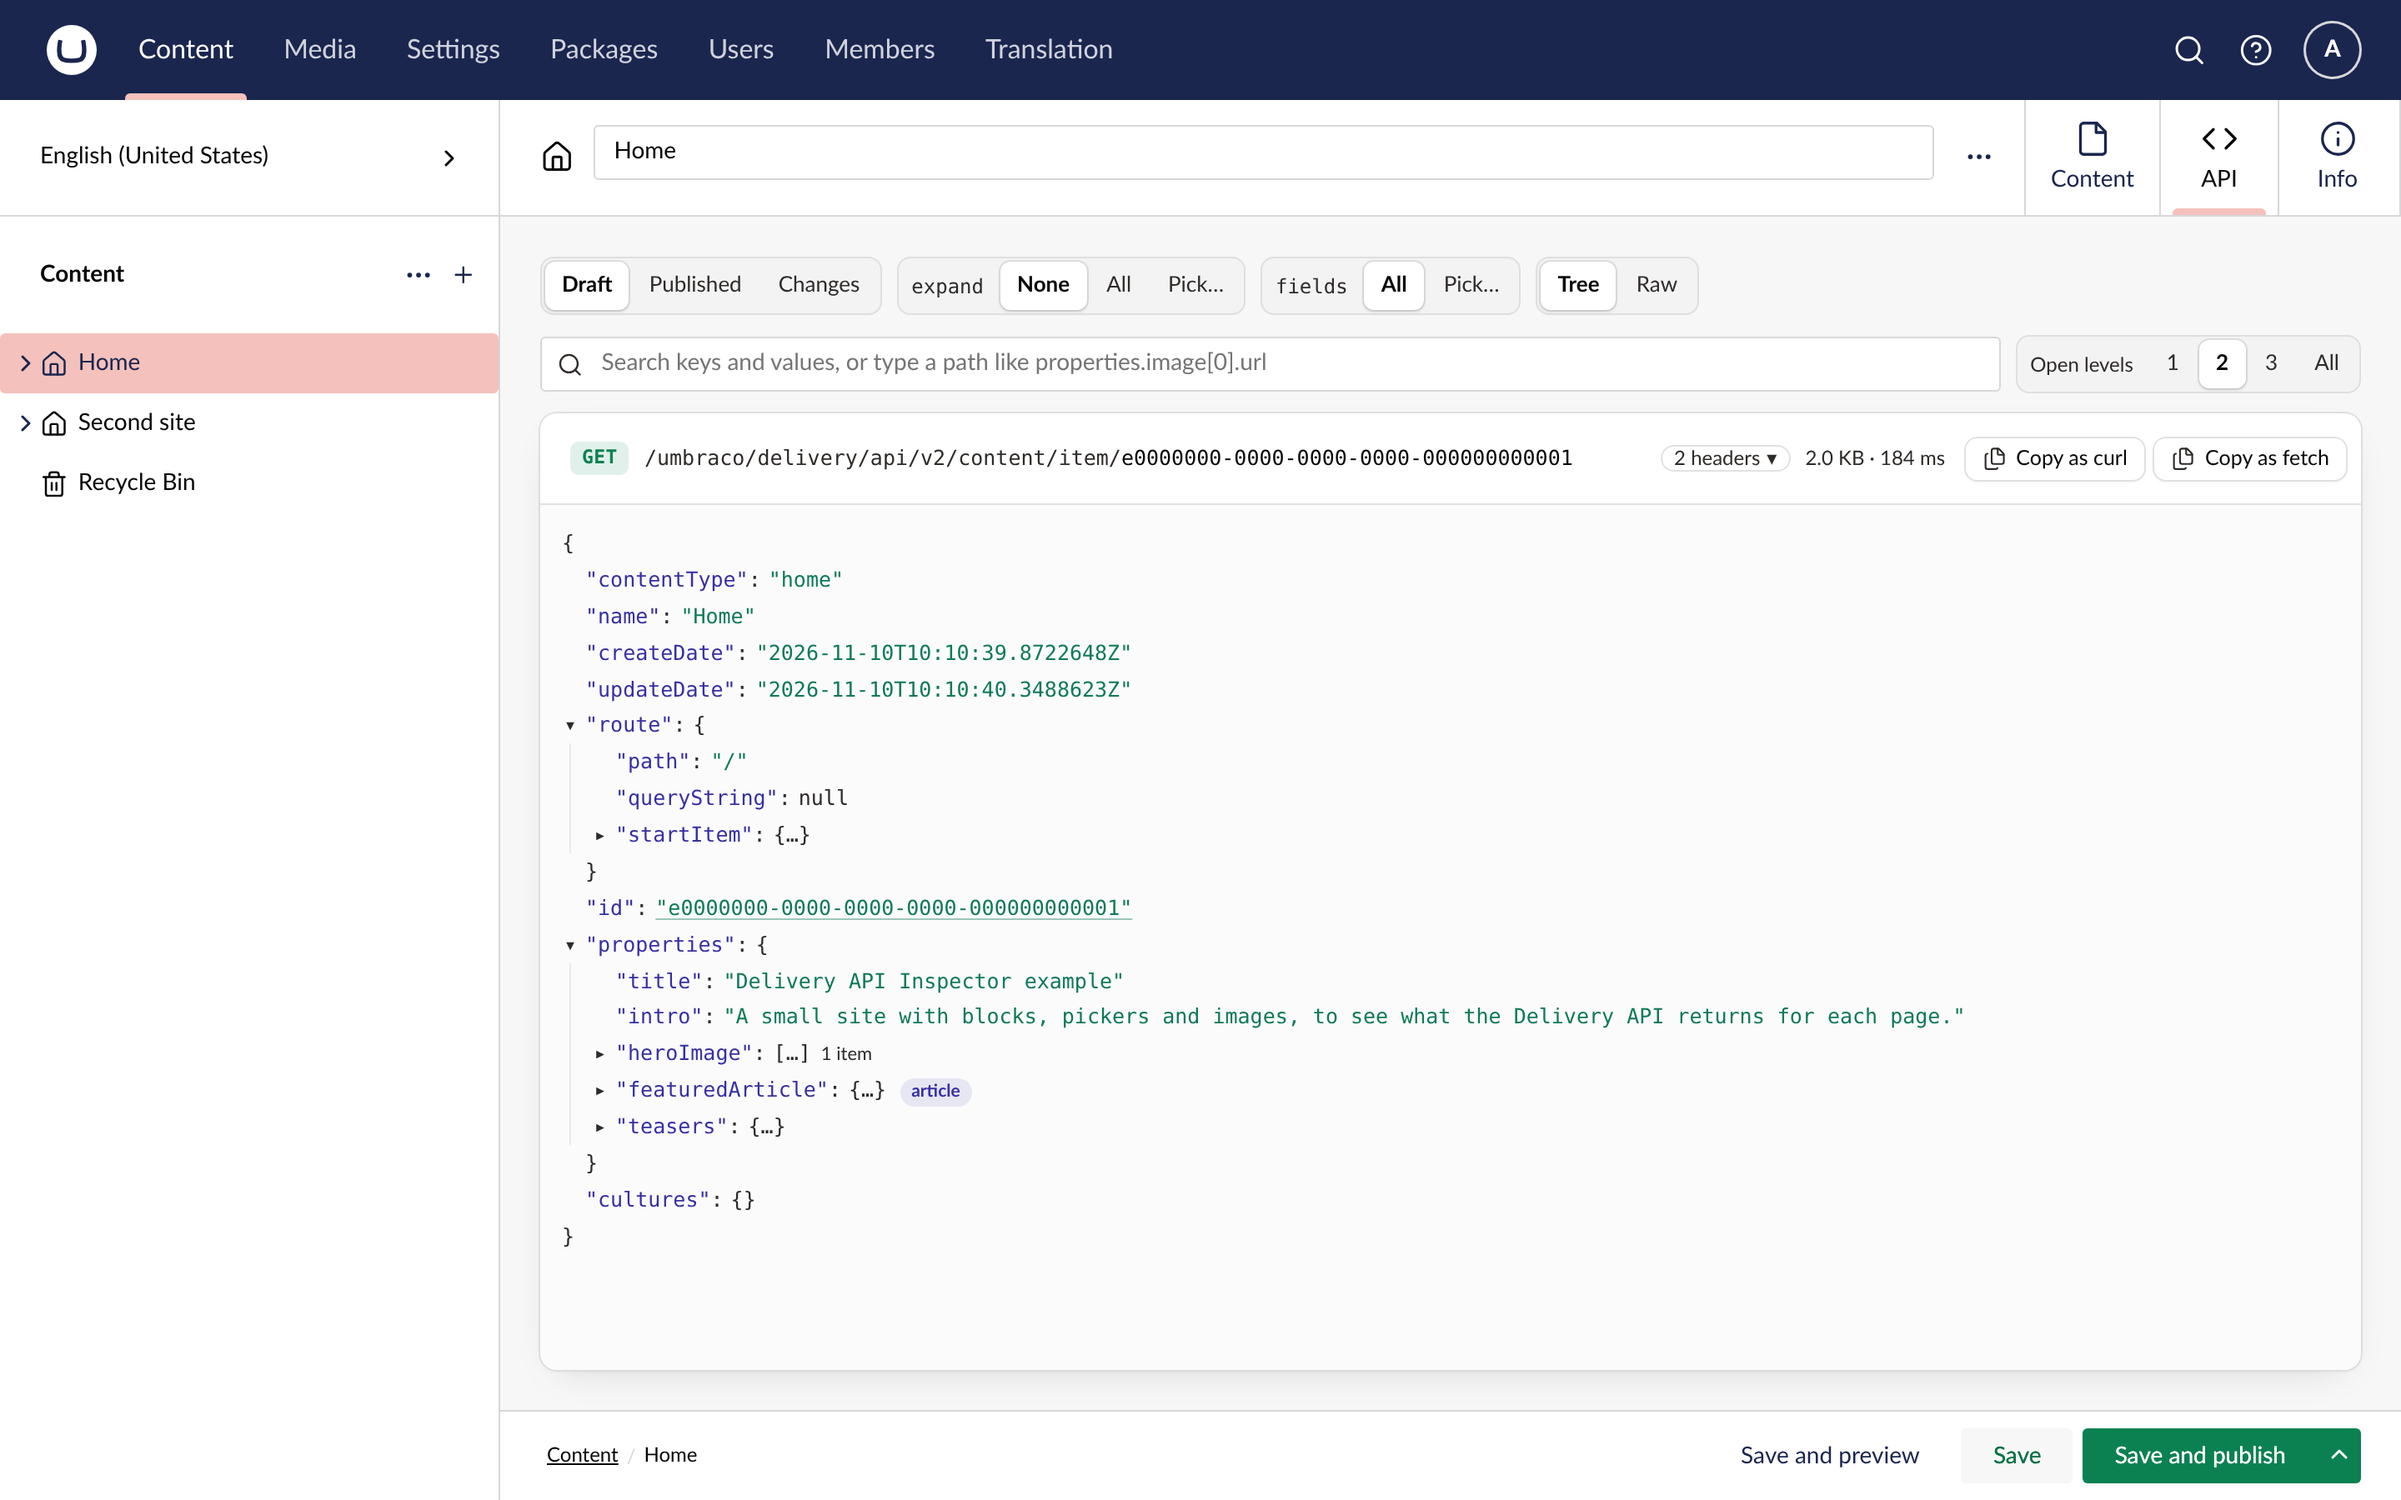
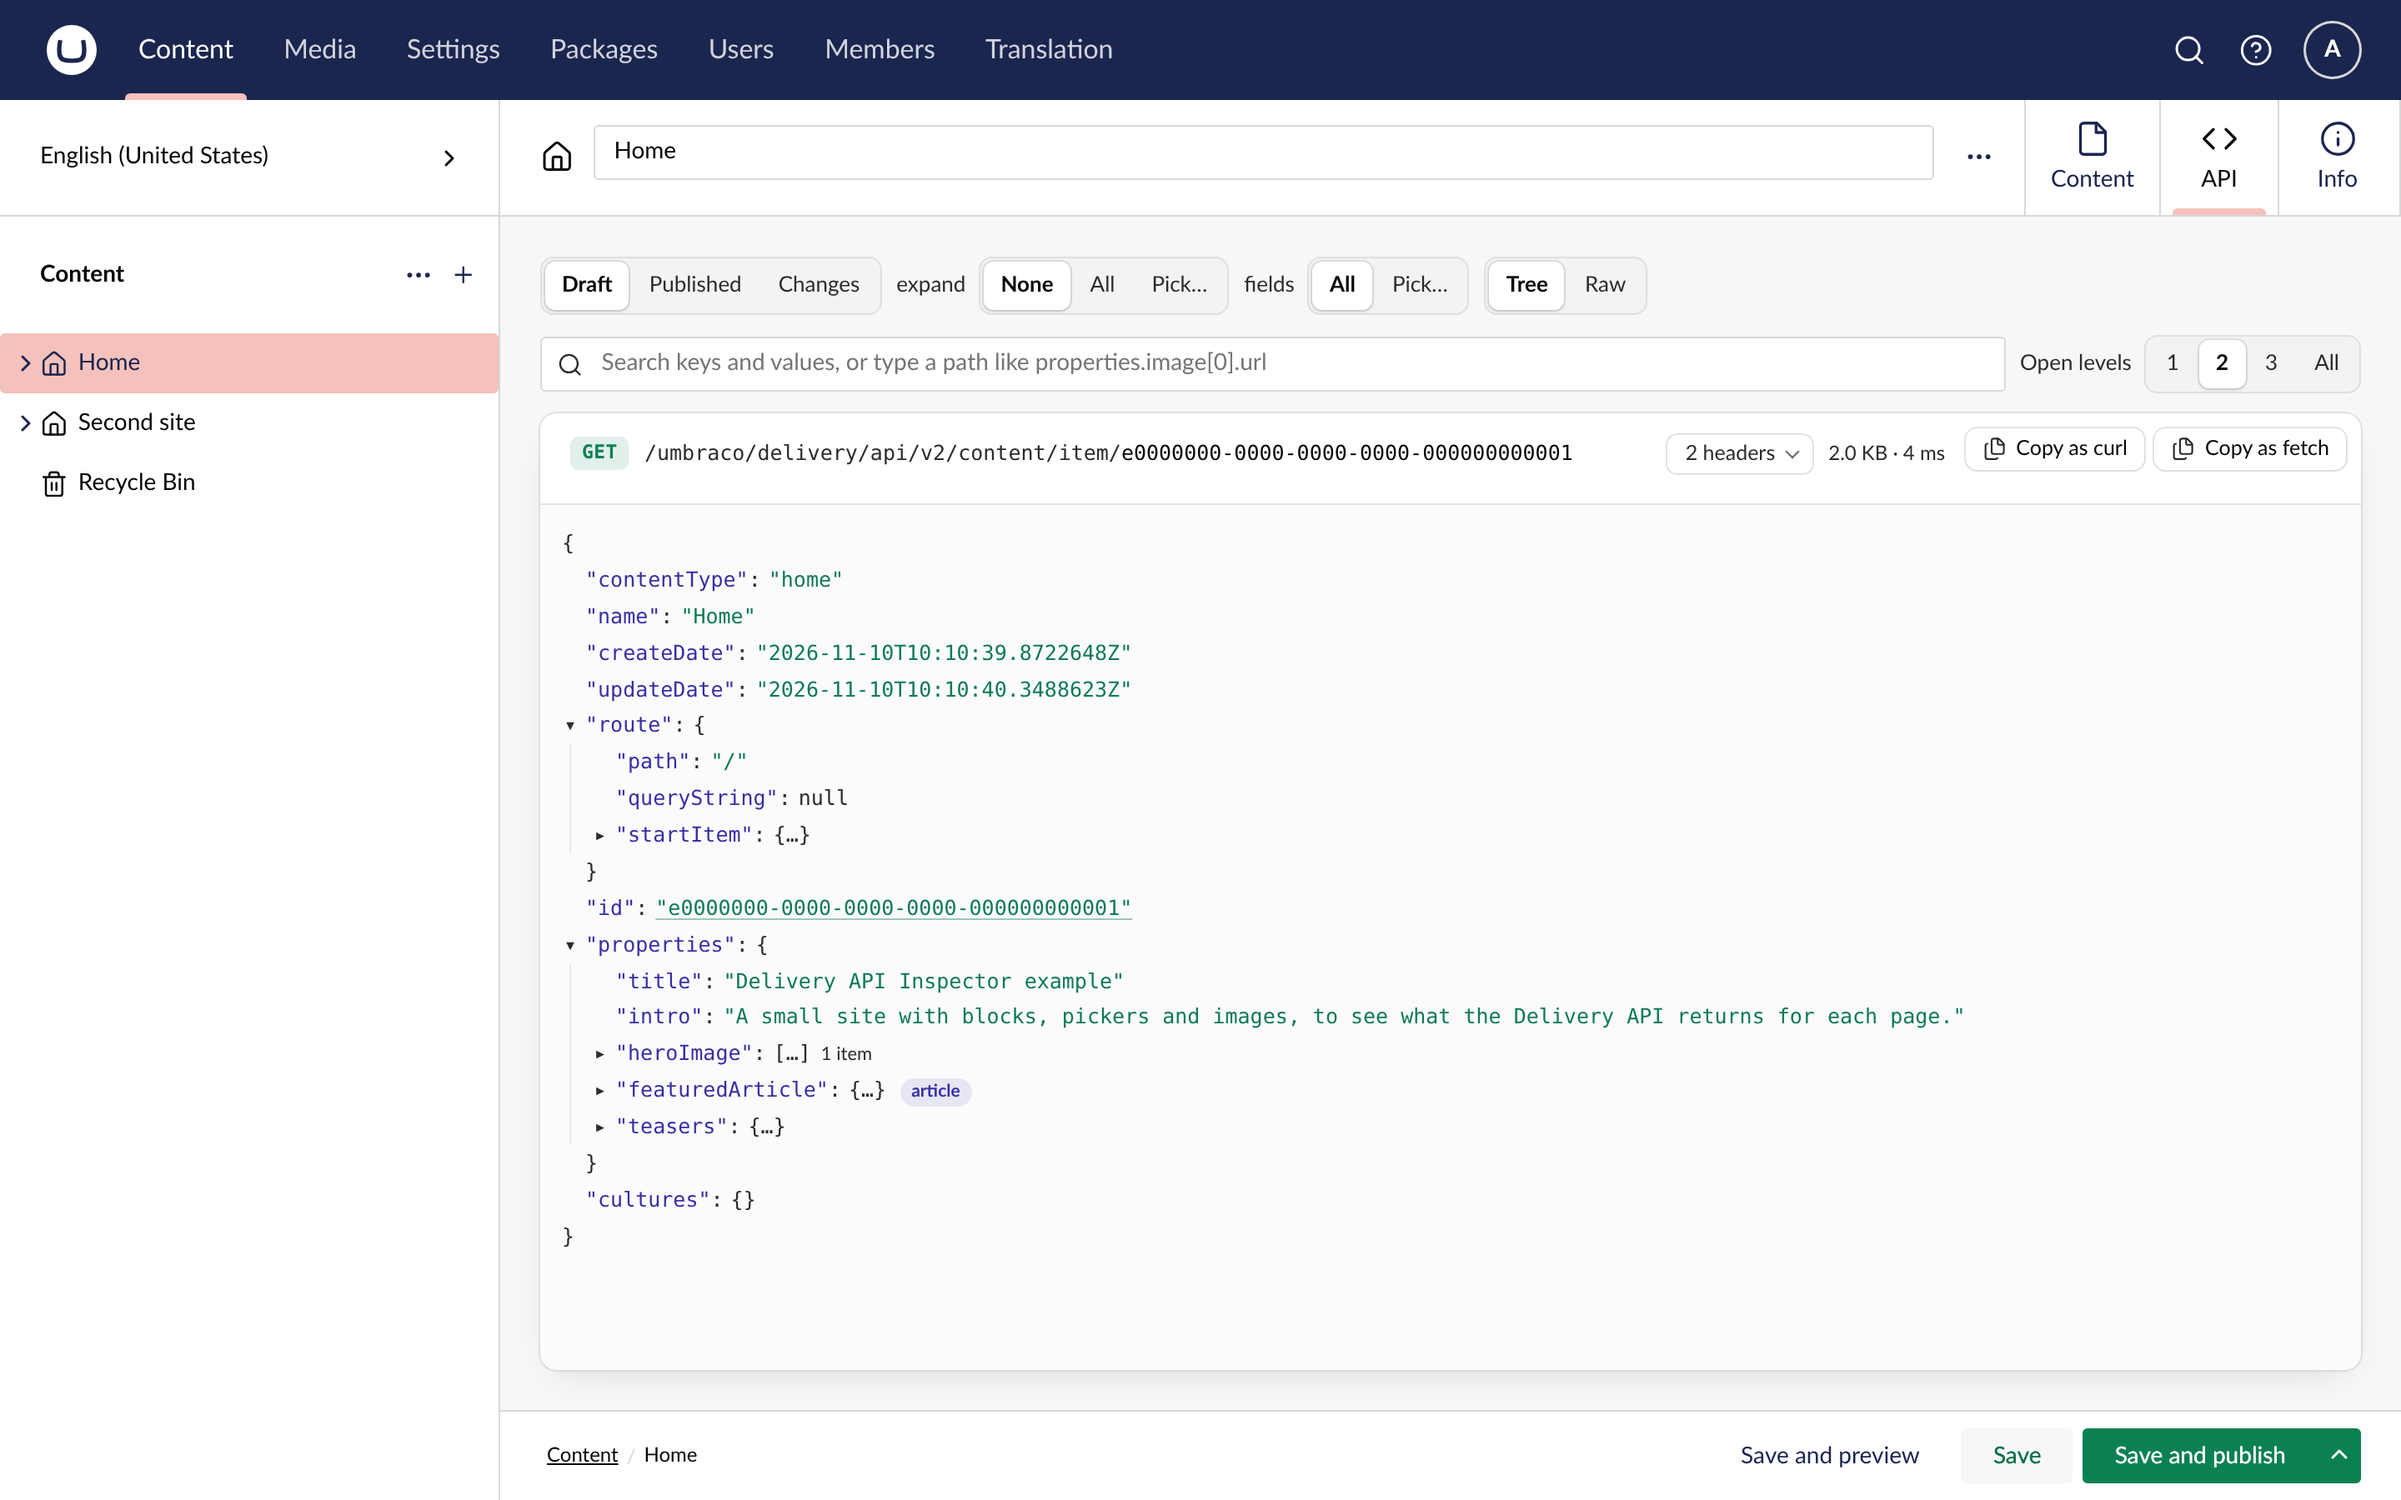
Refine the toolbar labels, header toggle and diff gutter
- Control labels sit outside the option track as plain text, so only the
  options look clickable; the version switch gets the same track.
- The headers toggle gets room to breathe and a thin chevron, and the URL
  line stays aligned with the copy buttons when the headers are open.
- In Changes the − and + get a column of their own at the left; a changed
  row's tint runs into it and the indent guides carry on through it.

diff --git a/src/TheBuilder.DeliveryApiInspector/Client/src/inspector-view.element.ts b/src/TheBuilder.DeliveryApiInspector/Client/src/inspector-view.element.ts
@@ -256,8 +256,8 @@ export class InspectorViewElement extends UmbElementMixin(LitElement) {
   #segmented<T extends string | number>(label: string, value: T, options: [T, string, string?][], set: (value: T) => void, disabled: (value: T) => boolean = () => false) {
     return html`<div class="segmented" role="group" aria-label=${label}>
       <span class="label" aria-hidden="true">${label}</span>
-      ${options.map(([option, text, title]) => html`<button type="button" aria-pressed=${String(option === value)} title=${title ?? text}
-        ?disabled=${disabled(option)} @click=${() => set(option)}>${text}</button>`)}
+      <span class="track">${options.map(([option, text, title]) => html`<button type="button" aria-pressed=${String(option === value)} title=${title ?? text}
+        ?disabled=${disabled(option)} @click=${() => set(option)}>${text}</button>`)}</span>
     </div>`;
   }
 
@@ -293,7 +293,7 @@ export class InspectorViewElement extends UmbElementMixin(LitElement) {
     return html`
       <div class="toolbar">
         ${isContent
-          ? html`<div class="segmented" role="group" aria-label="Version">
+          ? html`<div class="segmented" role="group" aria-label="Version"><span class="track">
               <button type="button" aria-pressed=${String(this._mode === "draft")} @click=${() => (this._mode = "draft")}
                 title=${draftDiffers ? "The draft has changes that are not published" : "The latest saved version, as Preview: true returns it"}>
                 ${draftDiffers ? html`<span class="dot" aria-hidden="true"></span>` : nothing}Draft</button>
@@ -302,7 +302,7 @@ export class InspectorViewElement extends UmbElementMixin(LitElement) {
               <button type="button" aria-pressed=${String(this._mode === "changes")} ?disabled=${!this._published}
                 title="What publishing the draft would change" @click=${() => (this._mode = "changes")}>Changes
                 ${this._mode === "changes" && this._changes ? html`<span class="count">${this._changes.size}</span>` : nothing}</button>
-            </div>`
+            </span></div>`
           : nothing}
         ${isContent && this._mode === "changes" && this._view === "tree"
           ? this.#segmented("Changes as", this._changeStyle, [["diff", "Diff", "A red line for published and a green line for the draft"], ["inline", "Inline", "Published struck through, next to the draft"]], (value) => (this._changeStyle = value))
@@ -310,8 +310,8 @@ export class InspectorViewElement extends UmbElementMixin(LitElement) {
         ${this.#segmented<Expand>("expand", this._expand, [["none", "None", "No expand parameter"], ["all", "All", "expand=properties[$all]"], ["pick", "Pick…", "Choose the properties to expand"]], (value) => (this._expand = value))}
         <div class="segmented" role="group" aria-label="fields">
           <span class="label" aria-hidden="true">fields</span>
-          <button type="button" aria-pressed=${String(!this._fieldsPick.length && !this._fieldsOpen)} title="Every property" @click=${() => { this._fieldsPick = []; this._fieldsOpen = false; }}>All</button>
-          <button type="button" aria-pressed=${String(this._fieldsOpen || !!this._fieldsPick.length)} title="Choose the properties to return" @click=${() => (this._fieldsOpen = !this._fieldsOpen)}>Pick…</button>
+          <span class="track"><button type="button" aria-pressed=${String(!this._fieldsPick.length && !this._fieldsOpen)} title="Every property" @click=${() => { this._fieldsPick = []; this._fieldsOpen = false; }}>All</button>
+          <button type="button" aria-pressed=${String(this._fieldsOpen || !!this._fieldsPick.length)} title="Choose the properties to return" @click=${() => (this._fieldsOpen = !this._fieldsOpen)}>Pick…</button></span>
         </div>
         ${this.#segmented("View", this._view, [["tree", "Tree"], ["raw", "Raw", "Read-only JSON in the code editor"]], (value) => (this._view = value))}
       </div>
@@ -340,7 +340,7 @@ export class InspectorViewElement extends UmbElementMixin(LitElement) {
                 ${request.headers.length
                   ? html`<button type="button" class="headers-toggle" aria-expanded=${String(this._headersOpen)} aria-controls="headers"
                       title=${request.headers.map(([name, value]) => `${name}: ${value}`).join("\n")}
-                      @click=${() => (this._headersOpen = !this._headersOpen)}>${request.headers.length} ${request.headers.length === 1 ? "header" : "headers"}<span aria-hidden="true">${this._headersOpen ? "▴" : "▾"}</span></button>`
+                      @click=${() => (this._headersOpen = !this._headersOpen)}>${request.headers.length} ${request.headers.length === 1 ? "header" : "headers"}<span class="caret" aria-hidden="true" ?data-open=${this._headersOpen}></span></button>`
                   : nothing}
                 ${this._response ? html`<span class="stats">${formatBytes(this._response.bytes)}${this._response.buildMs !== undefined ? ` · ${Math.round(this._response.buildMs)} ms` : ""}</span>` : nothing}
               </div>
@@ -414,7 +414,7 @@ export class InspectorViewElement extends UmbElementMixin(LitElement) {
       }
       .panel-header {
         display: flex;
-        align-items: center;
+        align-items: flex-start;
         gap: var(--uui-size-space-4);
         min-height: 36px;
         padding: var(--uui-size-space-3) var(--uui-size-space-3) var(--uui-size-space-3) var(--uui-size-space-5);
@@ -434,7 +434,13 @@ export class InspectorViewElement extends UmbElementMixin(LitElement) {
         align-items: center;
       }
       /* A track with the chosen option raised out of it, so the current choice reads at a glance. */
+      /* The label sits outside the track as plain text, so only the options look clickable. */
       .segmented {
+        display: inline-flex;
+        align-items: center;
+        gap: 8px;
+      }
+      .segmented .track {
         display: inline-flex;
         align-items: stretch;
         gap: 2px;
@@ -444,14 +450,8 @@ export class InspectorViewElement extends UmbElementMixin(LitElement) {
         box-shadow: inset 0 0 0 1px var(--inspector-line);
       }
       .segmented .label {
-        display: inline-flex;
-        align-items: center;
-        padding: 0 8px 0 6px;
-        font: 12px var(--uui-font-monospace, monospace);
+        font-size: 13px;
         color: var(--uui-color-text-alt);
-      }
-      .segmented[aria-label="Open levels"] .label {
-        font-family: var(--uui-font-family);
       }
       .segmented[aria-label="Version"] .label,
       .segmented[aria-label="View"] .label,
@@ -558,10 +558,12 @@ export class InspectorViewElement extends UmbElementMixin(LitElement) {
         flex: 1;
         font: 12.5px/1.5 var(--uui-font-monospace, monospace);
       }
+      /* As tall as the copy buttons, so the URL lines up with them whether the headers are open or not. */
       .line {
         display: flex;
         gap: var(--uui-size-space-3);
         align-items: center;
+        min-height: 30px;
         min-width: 0;
       }
       .method {
@@ -594,12 +596,12 @@ export class InspectorViewElement extends UmbElementMixin(LitElement) {
         all: unset;
         cursor: pointer;
         display: inline-flex;
-        gap: 4px;
+        gap: 7px;
         align-items: center;
         white-space: nowrap;
-        padding: 1px 8px;
-        border-radius: 99px;
-        font: 12px var(--uui-font-family);
+        padding: 5px 10px 5px 12px;
+        border-radius: 7px;
+        font: 500 12.5px/1.2 var(--uui-font-family);
         color: var(--uui-color-text-alt);
         box-shadow: inset 0 0 0 1px var(--inspector-line);
       }
@@ -607,6 +609,21 @@ export class InspectorViewElement extends UmbElementMixin(LitElement) {
       .headers-toggle[aria-expanded="true"] {
         color: var(--uui-color-text);
         background: var(--inspector-track);
+      }
+      /* A thin chevron drawn from two borders, lighter than a text triangle. */
+      .caret {
+        width: 5px;
+        height: 5px;
+        margin-top: -3px;
+        border-right: 1.5px solid currentColor;
+        border-bottom: 1.5px solid currentColor;
+        transform: rotate(45deg);
+        opacity: 0.7;
+        transition: transform 120ms, margin 120ms;
+      }
+      .caret[data-open] {
+        margin-top: 3px;
+        transform: rotate(-135deg);
       }
       .headers-toggle:focus-visible {
         outline: 2px solid var(--uui-color-focus);

diff --git a/src/TheBuilder.DeliveryApiInspector/Client/src/json-tree.element.ts b/src/TheBuilder.DeliveryApiInspector/Client/src/json-tree.element.ts
@@ -279,7 +279,7 @@ export class JsonTreeElement extends LitElement {
     const thumb = this._thumb
       ? html`<img class="thumb" popover="manual" alt="" src=${this._thumb.src} style="top:${this._thumb.top}px;left:${this._thumb.left}px" />`
       : nothing;
-    return html`${thumb}<div class="tree" role="tree" aria-label="Delivery API response" @keydown=${this.#onKeydown}
+    return html`${thumb}<div class=${this.changes?.size ? "tree diff" : "tree"} role="tree" aria-label="Delivery API response" @keydown=${this.#onKeydown}
       @focusin=${(event: FocusEvent) => (event.target as HTMLElement).setAttribute("tabindex", "0")}
       @focusout=${(event: FocusEvent) => (event.target as HTMLElement).setAttribute("tabindex", "-1")}>
       ${rows}
@@ -420,12 +420,24 @@ export class JsonTreeElement extends LitElement {
     }
     .actions button:hover { color: var(--uui-color-text); border-color: var(--uui-color-border-emphasis); }
     .actions button:focus-visible { outline: 2px solid var(--uui-color-focus); }
-    .added { background-color: var(--json-added); }
-    .removed { background-color: var(--json-removed); }
-    .changed { background-color: var(--json-changed); }
+    /* With changes, the tree gets a column of its own at the left for − and +, outside the
+       indentation, as in a code review. A changed row's tint runs into that column, and the indent
+       guides carry on through it a shade darker so they still read on the tint. */
+    .tree.diff { padding-left: 16px; }
+    .added, .removed, .changed {
+      background-color: var(--diff-tint);
+      box-shadow: -16px 0 0 var(--diff-tint);
+      --json-guide: color-mix(in srgb, var(--diff-ink) 28%, transparent);
+    }
+    .added:focus-visible, .removed:focus-visible, .changed:focus-visible {
+      box-shadow: -16px 0 0 var(--diff-tint), inset 0 0 0 2px var(--uui-color-focus);
+    }
+    .added { --diff-tint: var(--json-added); --diff-ink: var(--uui-color-positive, #0b8152); }
+    .removed { --diff-tint: var(--json-removed); --diff-ink: var(--uui-color-danger, #d42054); }
+    .changed { --diff-tint: var(--json-changed); --diff-ink: var(--uui-color-warning-contrast, #8a5a00); }
     .added::before, .removed::before, .changed::before {
       position: absolute;
-      left: 2px;
+      left: -12px;
       font-weight: 600;
     }
     .added::before { content: "+"; color: var(--uui-color-positive); }
